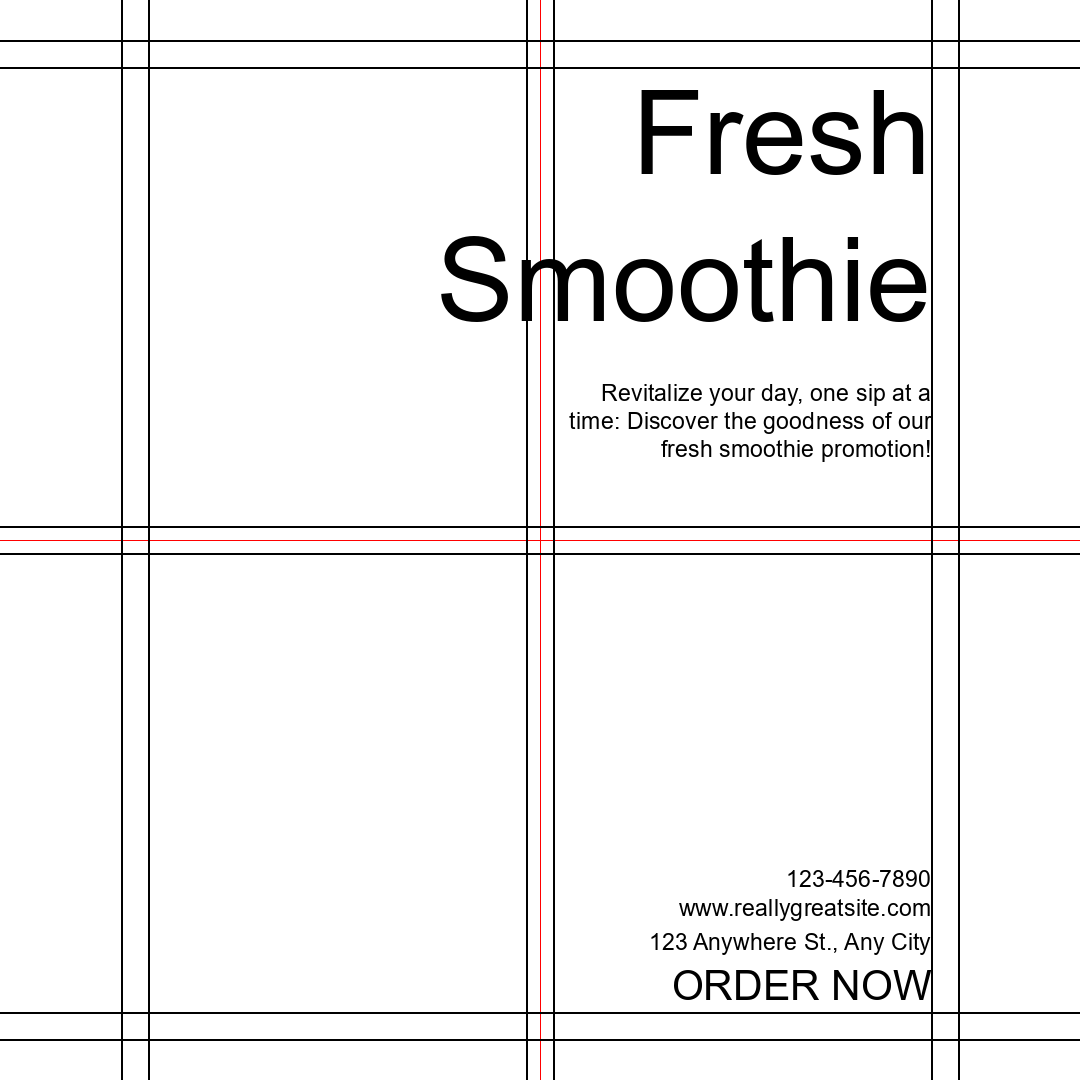
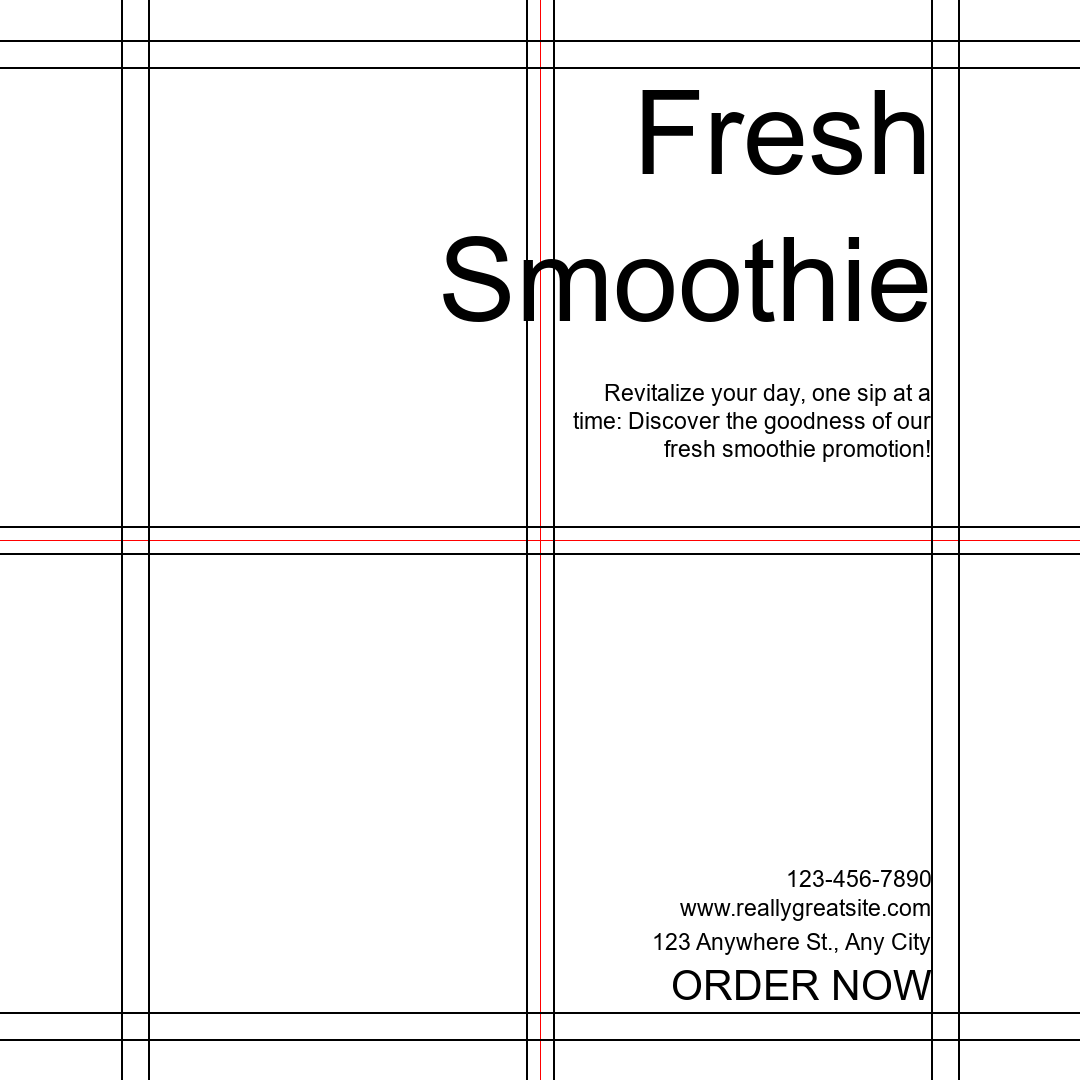
nothing

diff --git a/step4_a.py b/step4_a.py
@@ -122,7 +122,6 @@ def update_font_factor(font, text, priority, canvas_width, canvas_height):
             return font_size
 
 def add_alignment(grid:Grid, groups):
-    #TODO: Add 2 col, 1 row 
     if grid.rows == 1 and grid.cols == 1:
         for group in groups:
             col = group['col']
@@ -130,6 +129,17 @@ def add_alignment(grid:Grid, groups):
             for element in group['elements']:
                 if col == 0 and row == 0:
                     element['alignment_x'] = 0
+                    element['alignment_y'] = 0
+    elif grid.rows == 1 and grid.cols == 2:  # Added this loop for "2 col, 1 row"
+        for group in groups:
+            col = group['col']
+            row = group['row']
+            for element in group['elements']:
+                if col == 0 and row == 0:
+                    element['alignment_x'] = 1
+                    element['alignment_y'] = 0
+                elif col == 1 and row == 0:
+                    element['alignment_x'] = -1
                     element['alignment_y'] = 0
     elif grid.rows == 2 and grid.cols == 2:
         for group in groups:
@@ -219,10 +229,7 @@ def draw(width, height, font, grid:Grid, groups):
                 canvas_width=width)
             
     groups = add_alignment(grid, groups)
-    # TODO: Sort groups to put similar priority together in y-axis
-    # TODO: Heirarchy (Rule of odds)
-    # TODO: Hanging indent for bullets, quotes, etc.
-    # TODO: Hanging indent for images.
+
     for group in groups:
         elements = group['elements']
         col = group['col']
